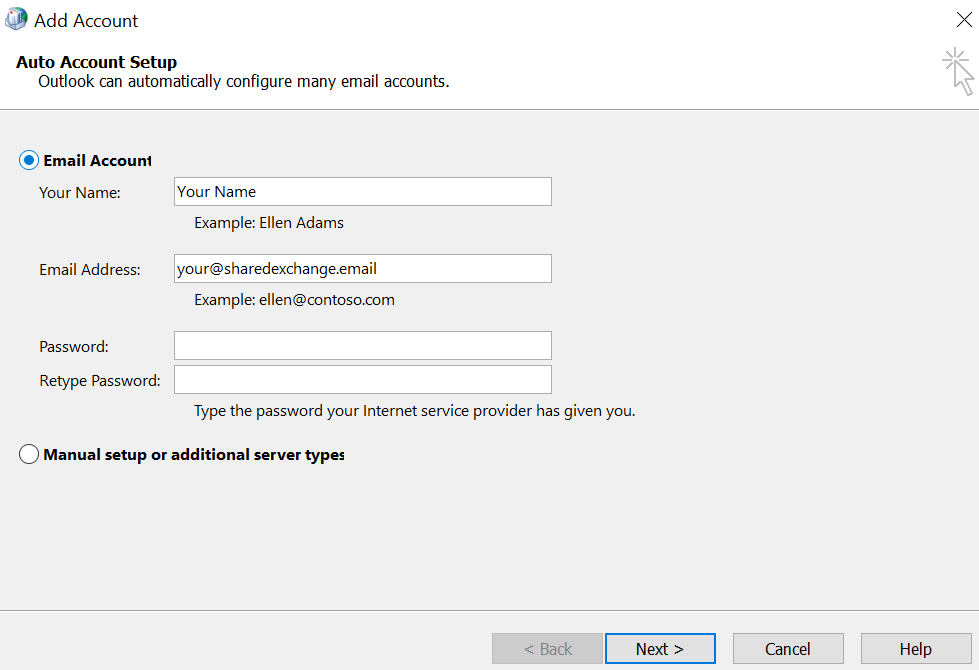
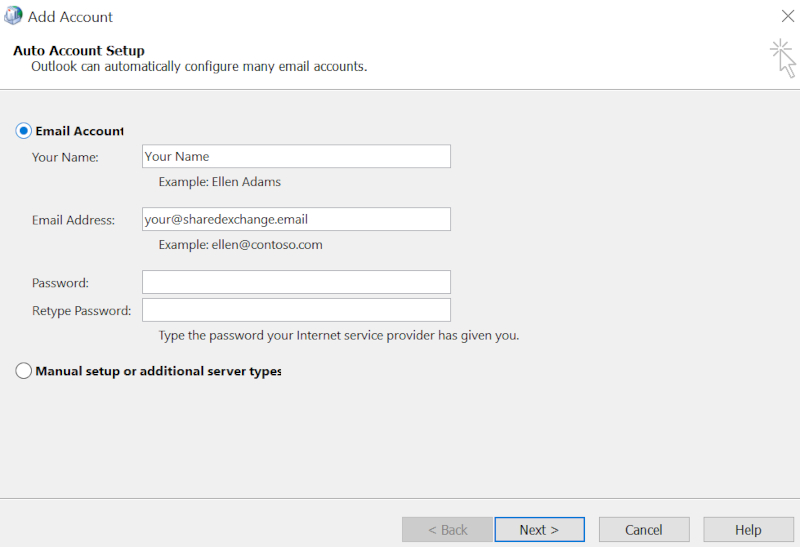
updated image sizes

diff --git a/source/desktop/sharedexchange/createnewoutlookprofile.md b/source/desktop/sharedexchange/createnewoutlookprofile.md
@@ -6,13 +6,14 @@ In this guide, we will walk you through the steps needed to add your Shared Exch
 
 ---
 
-## How to create a new Microsoft Outlook profile.
+## How to create a new Microsoft Outlook profile
 
 ```eval_rst
 .. note::
 
-Ensure that Microsoft Outlook is completely closed before starting the process of adding a new profile
+  Ensure that Microsoft Outlook is completely closed before starting the process of adding a new profile
 ```
+
 ### 1: Open Control Panel
 
 ![Open Control Panel](files/createnewoutlookprofile/new-profile-001.png)
@@ -68,7 +69,7 @@ If Outlook couldn't automatically configure your Exchange account, you'll need t
 
 - **Check Name:** Click on the "Check Name" button to validate your server and user information. If everything is entered correctly, Outlook will resolve your name and underline it.
 
-------
+---
 
 ### 7: Complete the Setup
 
